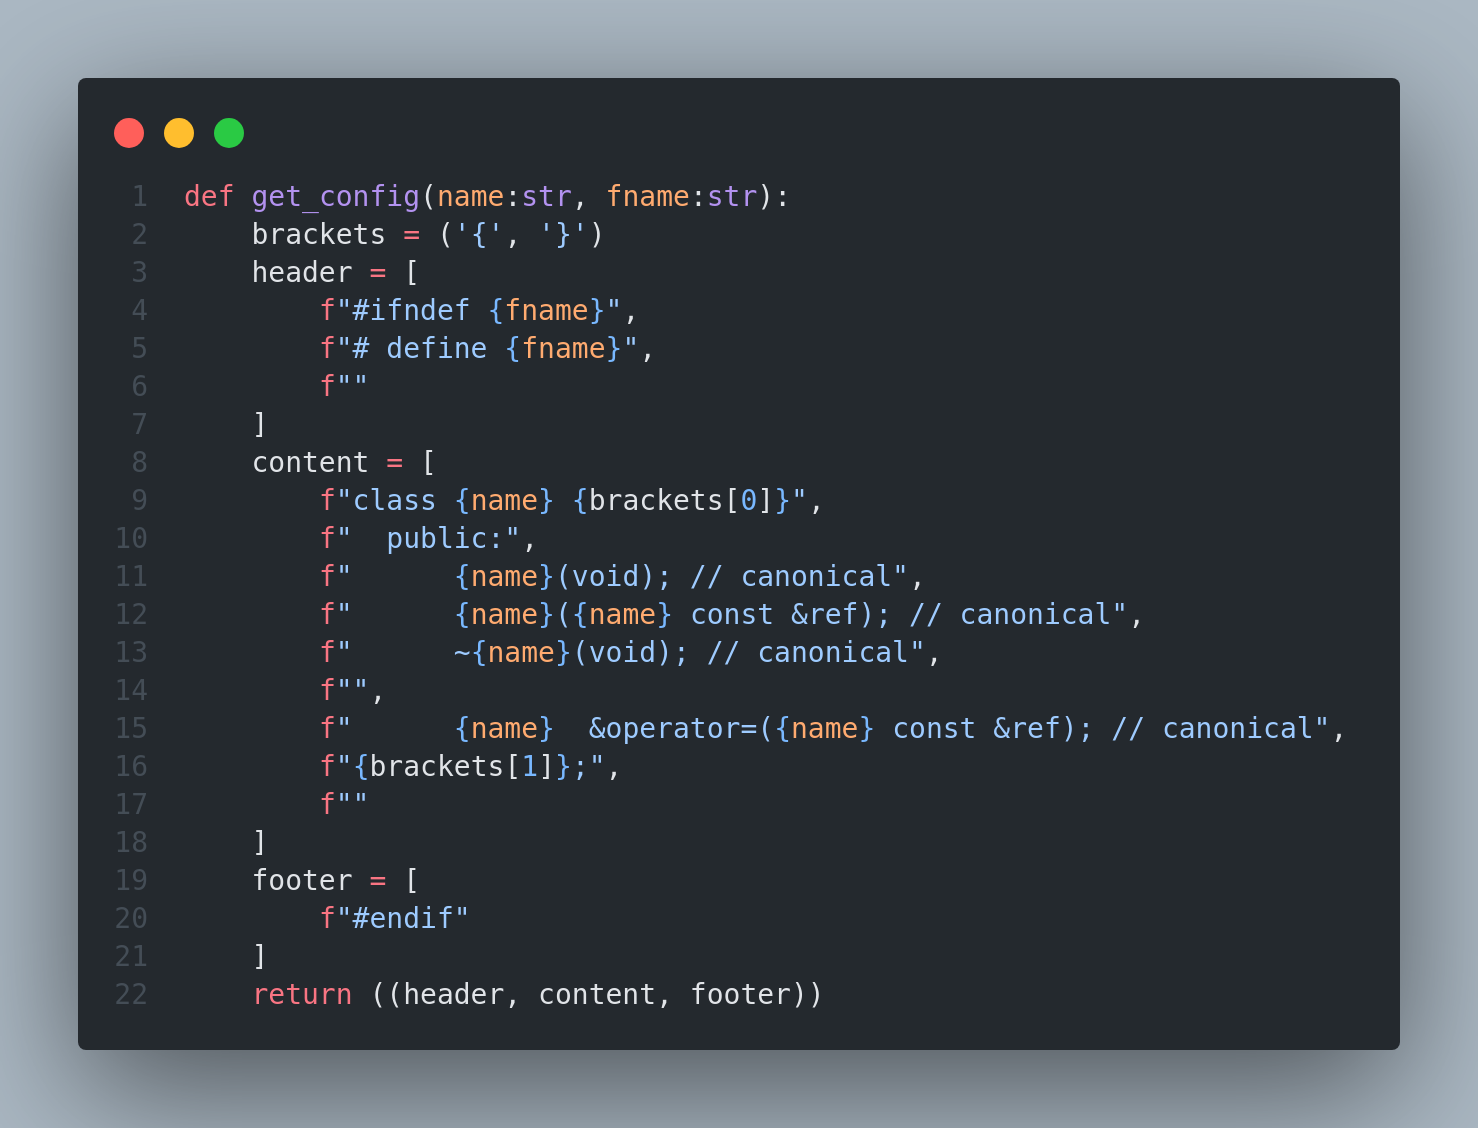
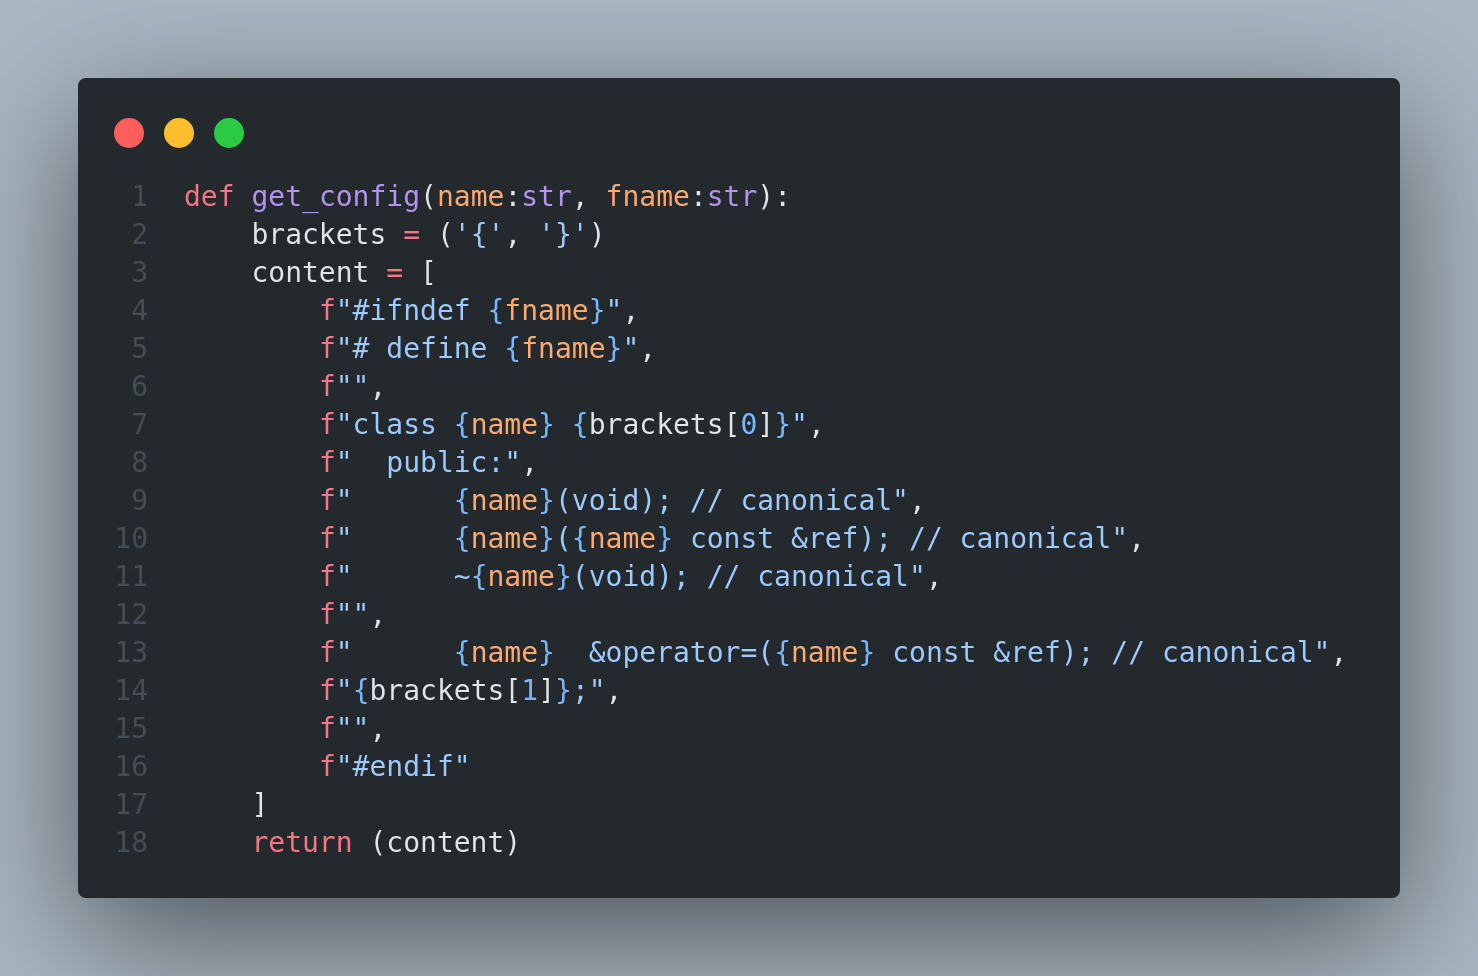
Update: README.md screenshot

diff --git a/README.md b/README.md
@@ -28,6 +28,6 @@ To correctly use Cpp_canonical you will need to give only one argument wich is t
 ## Configuration
 
 You can configure how your file will be create with the "config.py" file.
-This is simple python, you only need to change what's inside each arrays ("header", "content", "footer").
+This is simple python, you only need to change what's inside each string of the array.
 
 ![Screenshot](assets/screenshot.png)
